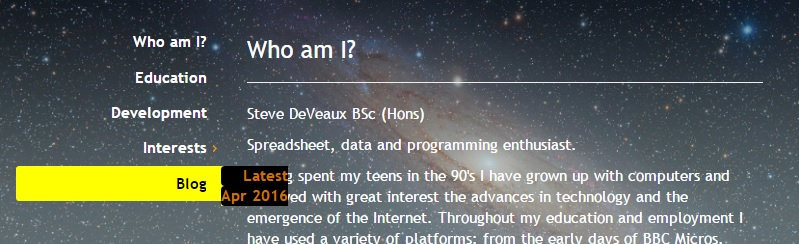
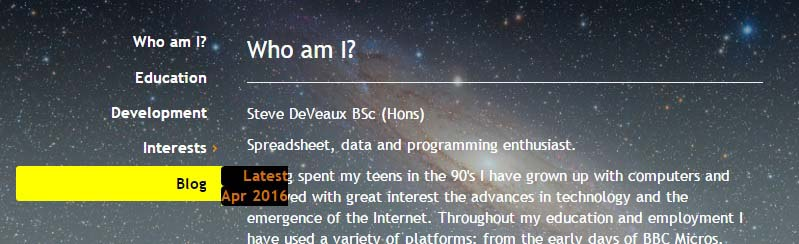
Resized & compressed images as recommended by PageSpeed Insights. CSS tweak to limit display size of profile pic.

diff --git a/css/globalCSS.php b/css/globalCSS.php
@@ -78,7 +78,12 @@
 
 	@media only screen and (min-width: 992px)
 	{
-		#profilePic, #sidebar-wrapper
+		#profilePic
+		{
+			max-width: 158px;
+		}
+
+		#sidebar-wrapper
 		{
 			width: 14.28571429%;
 		}
